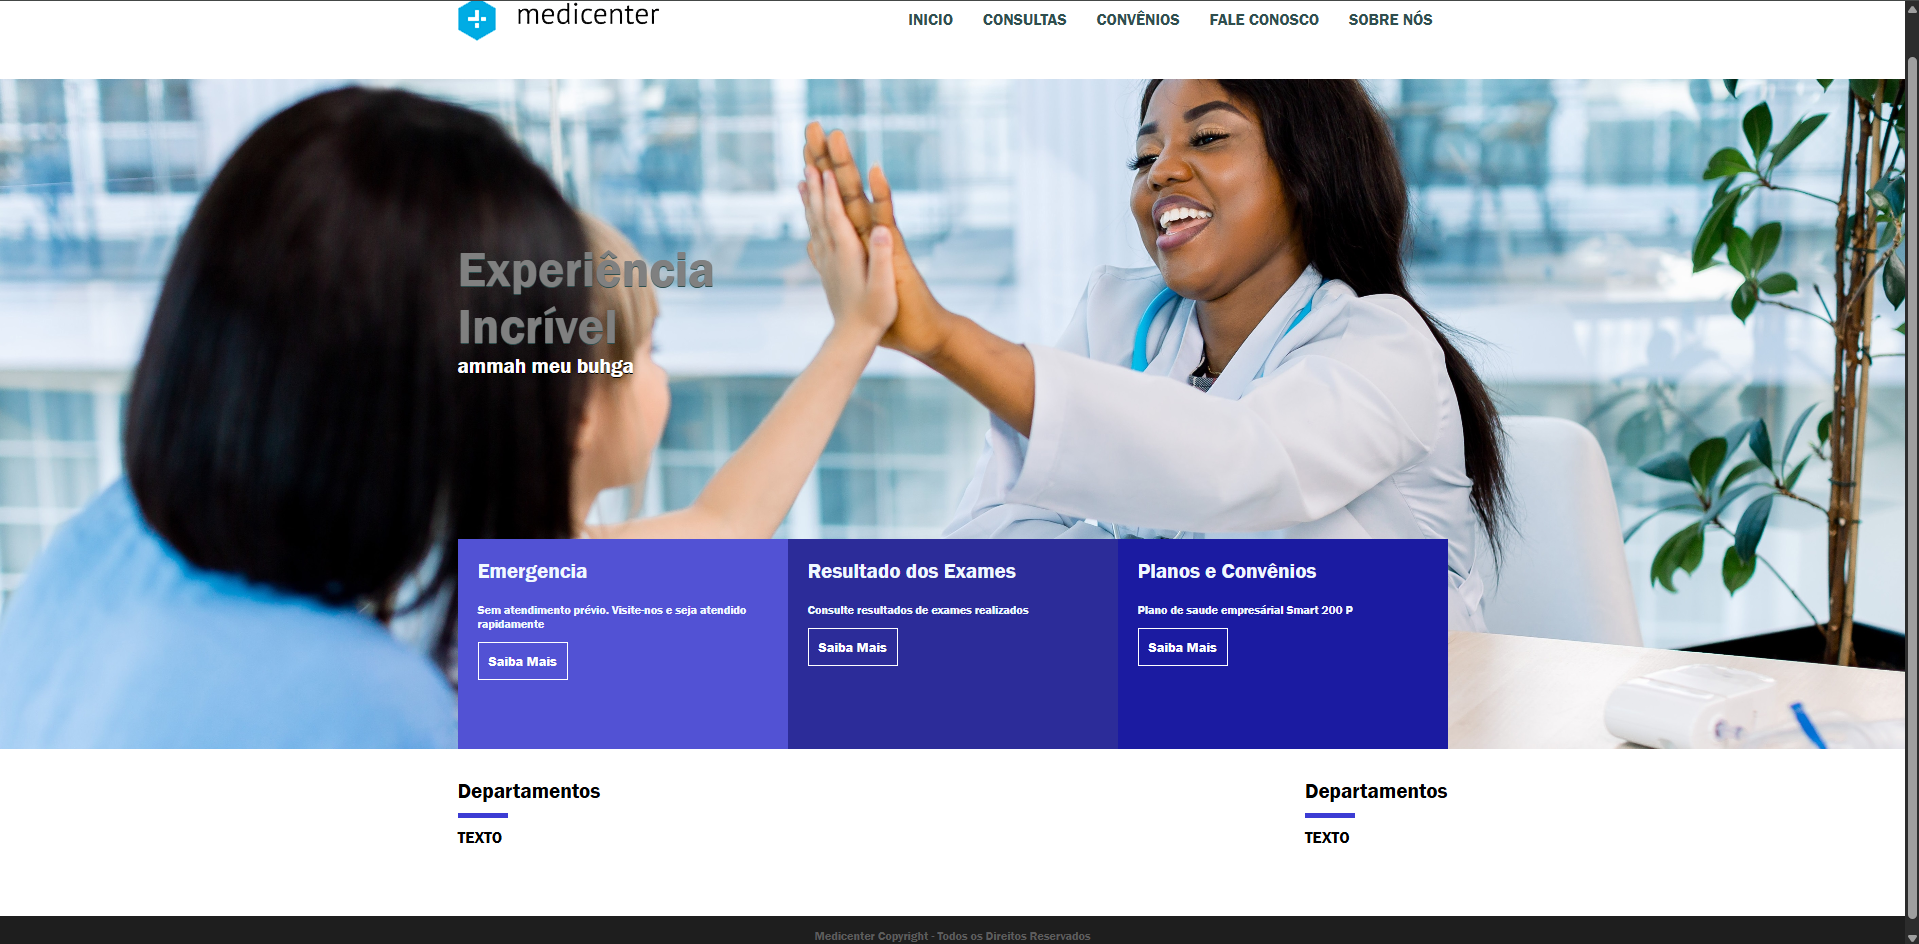
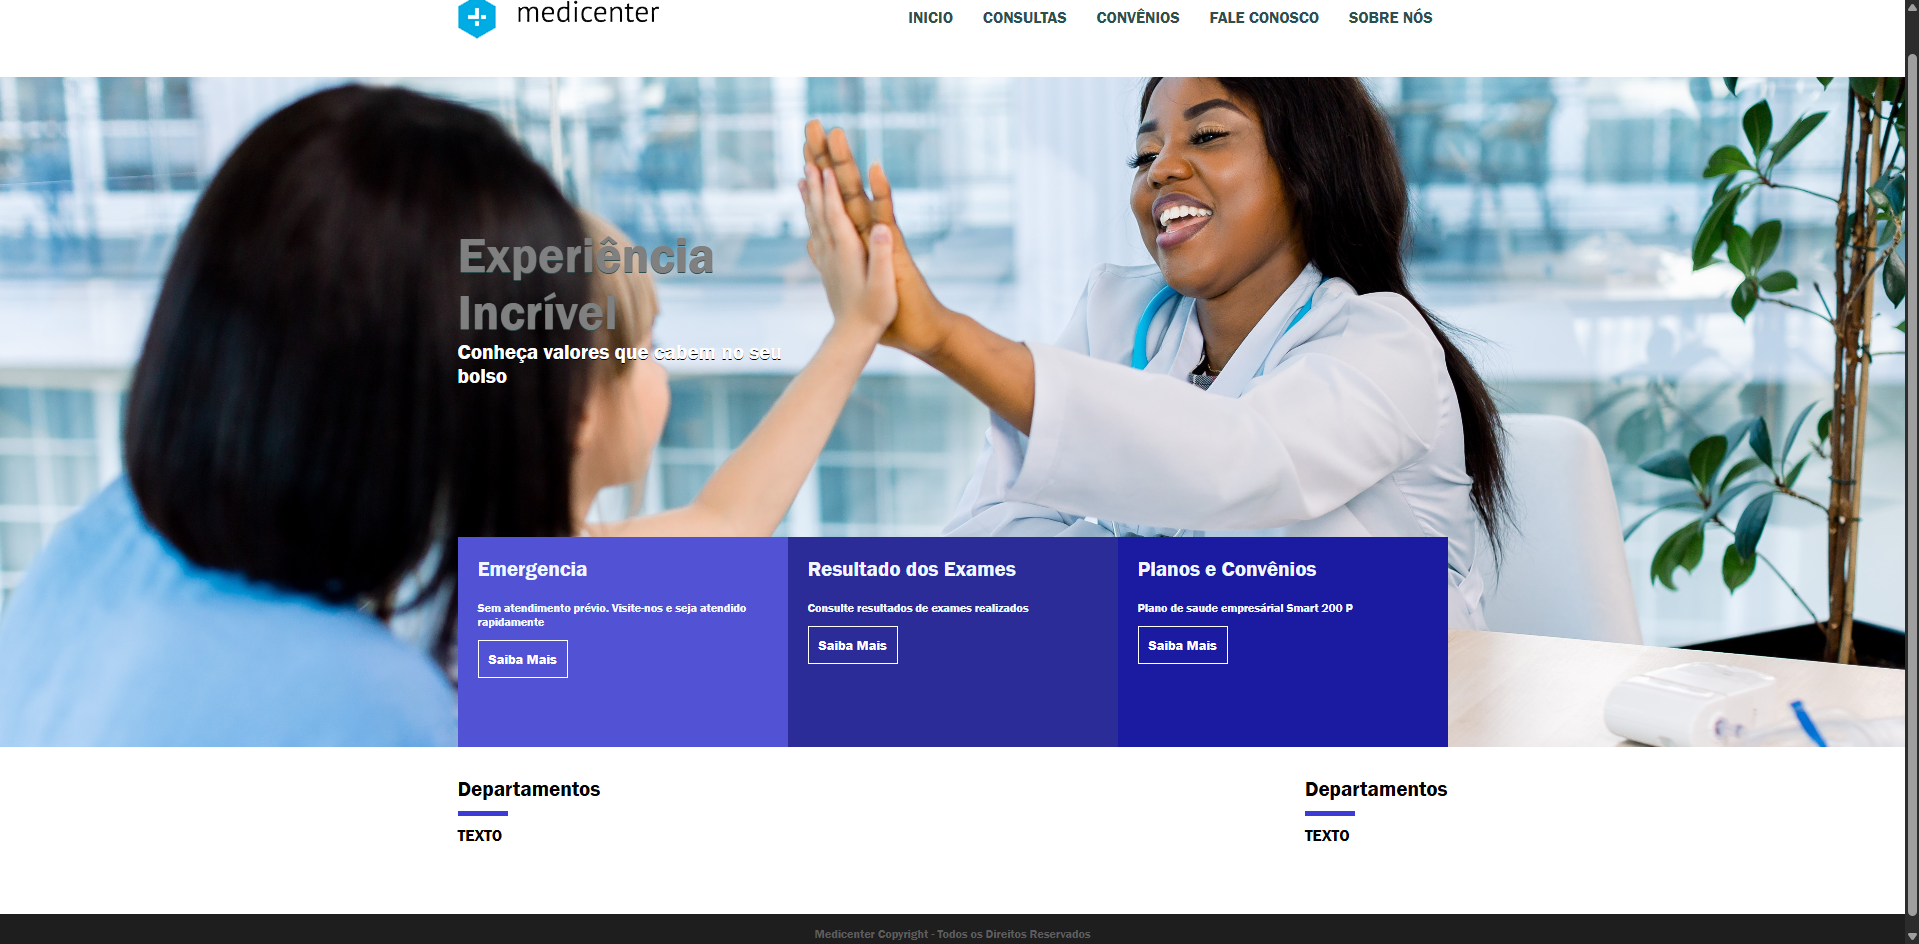
07/05/2025

diff --git a/index.html b/index.html
@@ -35,7 +35,7 @@
 
             <div class="banner_headline">
                 <h1>Experiência Incrível</h1>
-                <h2>ammah meu buhga</h2>
+                <h2>Conheça valores que cabem no seu bolso</h2>
             </div>
             <div class="banner_options">
                 <div class="banner1">
